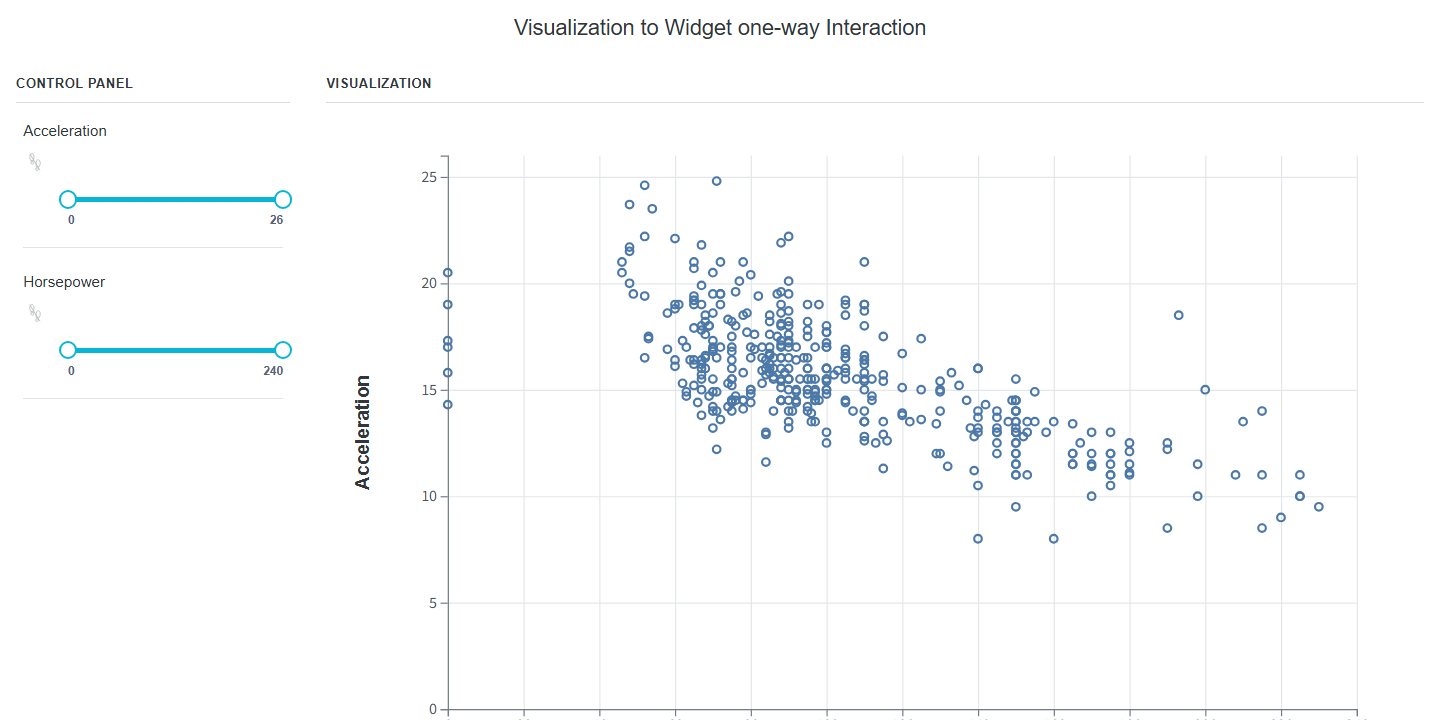
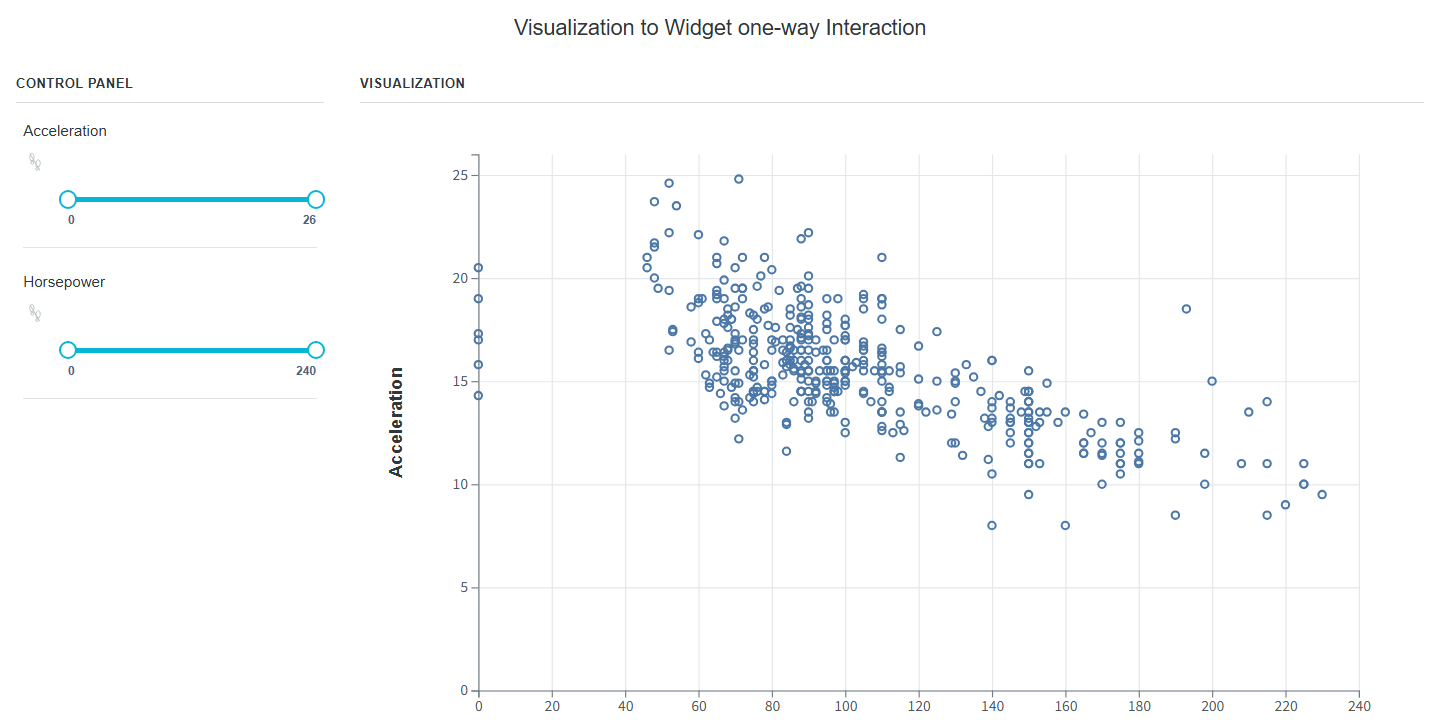
the width of the bar

diff --git a/src/styles/global.css b/src/styles/global.css
@@ -240,6 +240,17 @@ textarea {
 }
 
 /*
+ * Keep slider tracks the same length in every showcase layout. The widget
+ * grids otherwise stretch them to a card width while case-study controls
+ * shrink them to the remaining width beside the footprint button.
+ */
+:is(.playground-widget, .case-control__widget)
+    > div[data-label]:has([data-provenance-slider-ticks]) {
+    width: min(100%, 15.5rem) !important;
+    max-width: 15.5rem;
+}
+
+/*
  * Keep slider history points on the same x scale as the draggable handles.
  *
  * The temporal chart reserves 57px on the left for its padding/y-axis and
@@ -280,7 +291,7 @@ textarea {
 .case-study-layout {
     display: grid;
     /* PW1.0 keeps the control rail at about one fifth of the content width. */
-    grid-template-columns: minmax(180px, 1fr) minmax(0, 4fr);
+    grid-template-columns: minmax(19.25rem, 1fr) minmax(0, 4fr);
     gap: 2.25rem;
 }
 
@@ -456,7 +467,7 @@ textarea {
     }
 
     .case-study-layout {
-        grid-template-columns: minmax(180px, 1fr) minmax(0, 4fr);
+        grid-template-columns: minmax(19.25rem, 1fr) minmax(0, 4fr);
         gap: 1.25rem;
     }
 }
